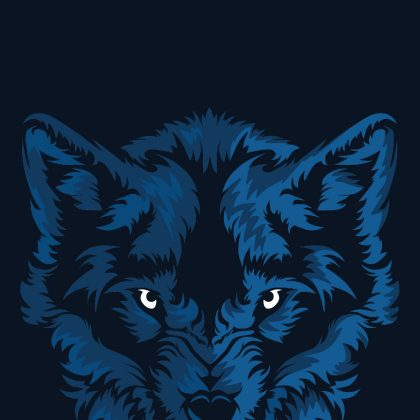
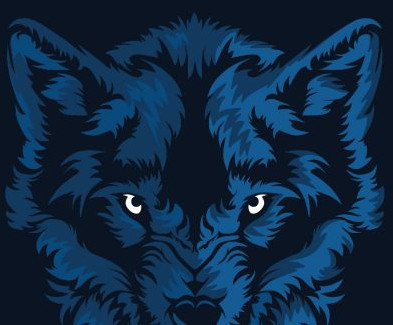
Fixes UI

diff --git a/src/components/Home.vue b/src/components/Home.vue
@@ -1,19 +1,19 @@
 <template>
   <v-container class="main">
     <v-row class="text-center">
-      <v-col cols="12">
+      <v-col cols="12" class="mt-0">
         <v-img
-          :src="require('../assets/86_background.jpeg')"
+          :src="require('../assets/86_background.png')"
           contain
-          height="250"
+          height="200"
         />
         <v-card class="mx-auto" color="primary">
           <v-list-item three-line>
             <v-list-item-content>
-              <div class="text-overline mb-4">
+              <div class="text-overline mb-2">
                 Peter sa biere c'est bien, finir sa lubullule c'est mieux.
               </div>
-              <v-list-item-title class="text-h1 mb-1">
+              <v-list-item-title class="text-h3">
                 MaLubullule
               </v-list-item-title>
               <v-list-item-subtitle>100% original.</v-list-item-subtitle>
@@ -98,7 +98,7 @@
                     <v-list-item class="pl-0 text-h6">
                       <v-list-item-content>
                         <v-list-item-title
-                          >Temps éstimé pour atteindre le seuil légale :
+                          >Temps estimé pour atteindre le seuil légale :
                           <b> {{ estimatedTime }}min </b>
                         </v-list-item-title>
                       </v-list-item-content>

diff --git a/src/App.vue b/src/App.vue
@@ -1,45 +1,36 @@
 <template>
   <v-app>
-    <v-app-bar
-      app
-      color="primary"
-      dark
-    >
+    <v-app-bar app color="primary" dark>
       <div class="d-flex align-center">
         <h1>MaLubullule</h1>
       </div>
 
       <v-spacer></v-spacer>
 
-      <v-btn
-        href="#"
-        text
-      >
+      <v-btn href="#" text>
         <span class="mr-2">Taux</span>
         <v-icon>mdi-call-made</v-icon>
       </v-btn>
     </v-app-bar>
 
     <v-main>
-      <Home/>
+      <Home />
     </v-main>
   </v-app>
 </template>
 
 
 <style scoped>
-
 #app {
-    background-color: var(--v-background-base);
+  background-color: var(--v-background-base);
 }
-
 </style>
 
 <script>
-import Home from './components/Home';
+import Home from "./components/Home";
 
 export default {
-  name: 'App',
+  name: "App",
 
   components: {
     Home,
